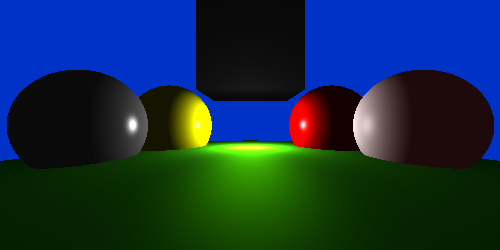
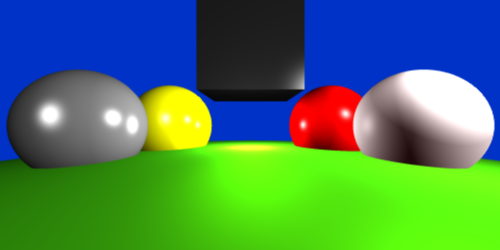
multiple lights can be added (in LightIntensity class)

diff --git a/IK_Raytracer/IK_Raytracer/LightIntensity.cpp b/IK_Raytracer/IK_Raytracer/LightIntensity.cpp
@@ -212,21 +212,32 @@ LightIntensity LightIntensity::operator*(vec3 v)
 LightIntensity LightIntensity::GetColorFromRay(const Ray& r, Hitable* world, vec3 cameraPosition, int bounce)
 {
 	hitRecord rec;
+	std::vector<PointLight> pointLights;
+	std::vector<DirectionalLight> directionalLights;
+
+	pointLights.push_back(PointLight(vec3(1.0, 1.0, 1.0), vec3(1.0, 1.0, 1.0), vec3(0, 0.1, 0), 0.5f, 1.0f, 5.0f));
+	pointLights.push_back(PointLight(vec3(1.0, 1.0, 1.0), vec3(1.0, 1.0, 1.0), vec3(-6, 3, 5), 0.5f, 1.0f, 5.0f));
+
+	directionalLights.push_back(DirectionalLight(vec3(0.9, 0.9, 0.9), vec3(0.9, 0.9, 0.9), vec3(30000, -10000, -30000)));
+
 	if (world->hit(r, 0.0, 100, rec))
 	{
-		vec3 diffuseColor;
-		vec3 specularColor;
-		DirectionalLight dirLight(vec3(0.9, 0.9, 0.9), vec3(0.9, 0.9, 0.9), vec3(30000, -10000, -30000));
-		PointLight pointLight(vec3(1.0, 1.0, 1.0), vec3(1.0, 1.0, 1.0), vec3(0, 0.1, 0), 0.5f, 1.0f, 5.0f);
-		specularColor = pointLight.getSpecular(rec, -cameraPosition, rec.materialPtr->shininess);
-		diffuseColor =  pointLight.getDiffuse(rec);
-
-		/*return LightIntensity(red(rec.materialPtr->mAmbient.r()   + rec.materialPtr->mDiffuse.r() * diffuseColor.r() + rec.materialPtr->mSpecular.r() * specularColor.r() * 1), 
-							  green(rec.materialPtr->mAmbient.g() + rec.materialPtr->mDiffuse.g() * diffuseColor.g() + rec.materialPtr->mSpecular.g() * specularColor.g() * 1), 
-							  blue(rec.materialPtr->mAmbient.b()  + rec.materialPtr->mDiffuse.b() * diffuseColor.b() + rec.materialPtr->mSpecular.b() * specularColor.b() * 1));*/
-		return LightIntensity(red(rec.materialPtr->mAmbient.r()   + rec.materialPtr->mDiffuse.r() * diffuseColor.r() * 100.0f + rec.materialPtr->mSpecular.r() * specularColor.r() * 1),
-							  green(rec.materialPtr->mAmbient.g() + rec.materialPtr->mDiffuse.g() * diffuseColor.g() * 100.0f + rec.materialPtr->mSpecular.g() * specularColor.g() * 1),
-							  blue(rec.materialPtr->mAmbient.b()  + rec.materialPtr->mDiffuse.b() * diffuseColor.b() * 100.0f + rec.materialPtr->mSpecular.b() * specularColor.b() * 1));
+		vec3 diffuseColor(0, 0, 0);
+		vec3 specularColor(0, 0, 0);
+		for (int i = 0; i < pointLights.size(); i++)
+		{
+			specularColor += pointLights.at(i).getSpecular(rec, -cameraPosition, rec.materialPtr->shininess);
+			diffuseColor += pointLights.at(i).getDiffuse(rec);
+		}
+		for (int i = 0; i < directionalLights.size(); i++)
+		{
+			specularColor += directionalLights.at(i).getSpecular(rec, -cameraPosition, rec.materialPtr->shininess);
+			diffuseColor += directionalLights.at(i).getDiffuse(rec);
+		}
+		
+		return LightIntensity(red(rec.materialPtr->mAmbient.r()   + rec.materialPtr->mDiffuse.r() * diffuseColor.r() + rec.materialPtr->mSpecular.r() * specularColor.r() * 1),
+							  green(rec.materialPtr->mAmbient.g() + rec.materialPtr->mDiffuse.g() * diffuseColor.g() + rec.materialPtr->mSpecular.g() * specularColor.g() * 1),
+							  blue(rec.materialPtr->mAmbient.b()  + rec.materialPtr->mDiffuse.b() * diffuseColor.b() + rec.materialPtr->mSpecular.b() * specularColor.b() * 1));
 	}
 	else
 	{

diff --git a/IK_Raytracer/IK_Raytracer/PointLight.cpp b/IK_Raytracer/IK_Raytracer/PointLight.cpp
@@ -12,7 +12,7 @@ vec3 PointLight::getDiffuse(hitRecord& rec)
 	diffuseColor *= dot(normalize(rec.normal), normalize(unit_vector(lightDir)));
 	diffuseColor /= finalAttenuation;
 	
-	return vec3(getRed(diffuseColor.r()), getGreen(diffuseColor.g()), getBlue(diffuseColor.b()));
+	return vec3(getRed(diffuseColor.r()), getGreen(diffuseColor.g()), getBlue(diffuseColor.b())) * 100;
 }
 vec3 PointLight::getSpecular(hitRecord& rec, vec3 cameraPos, float shininess)
 {
